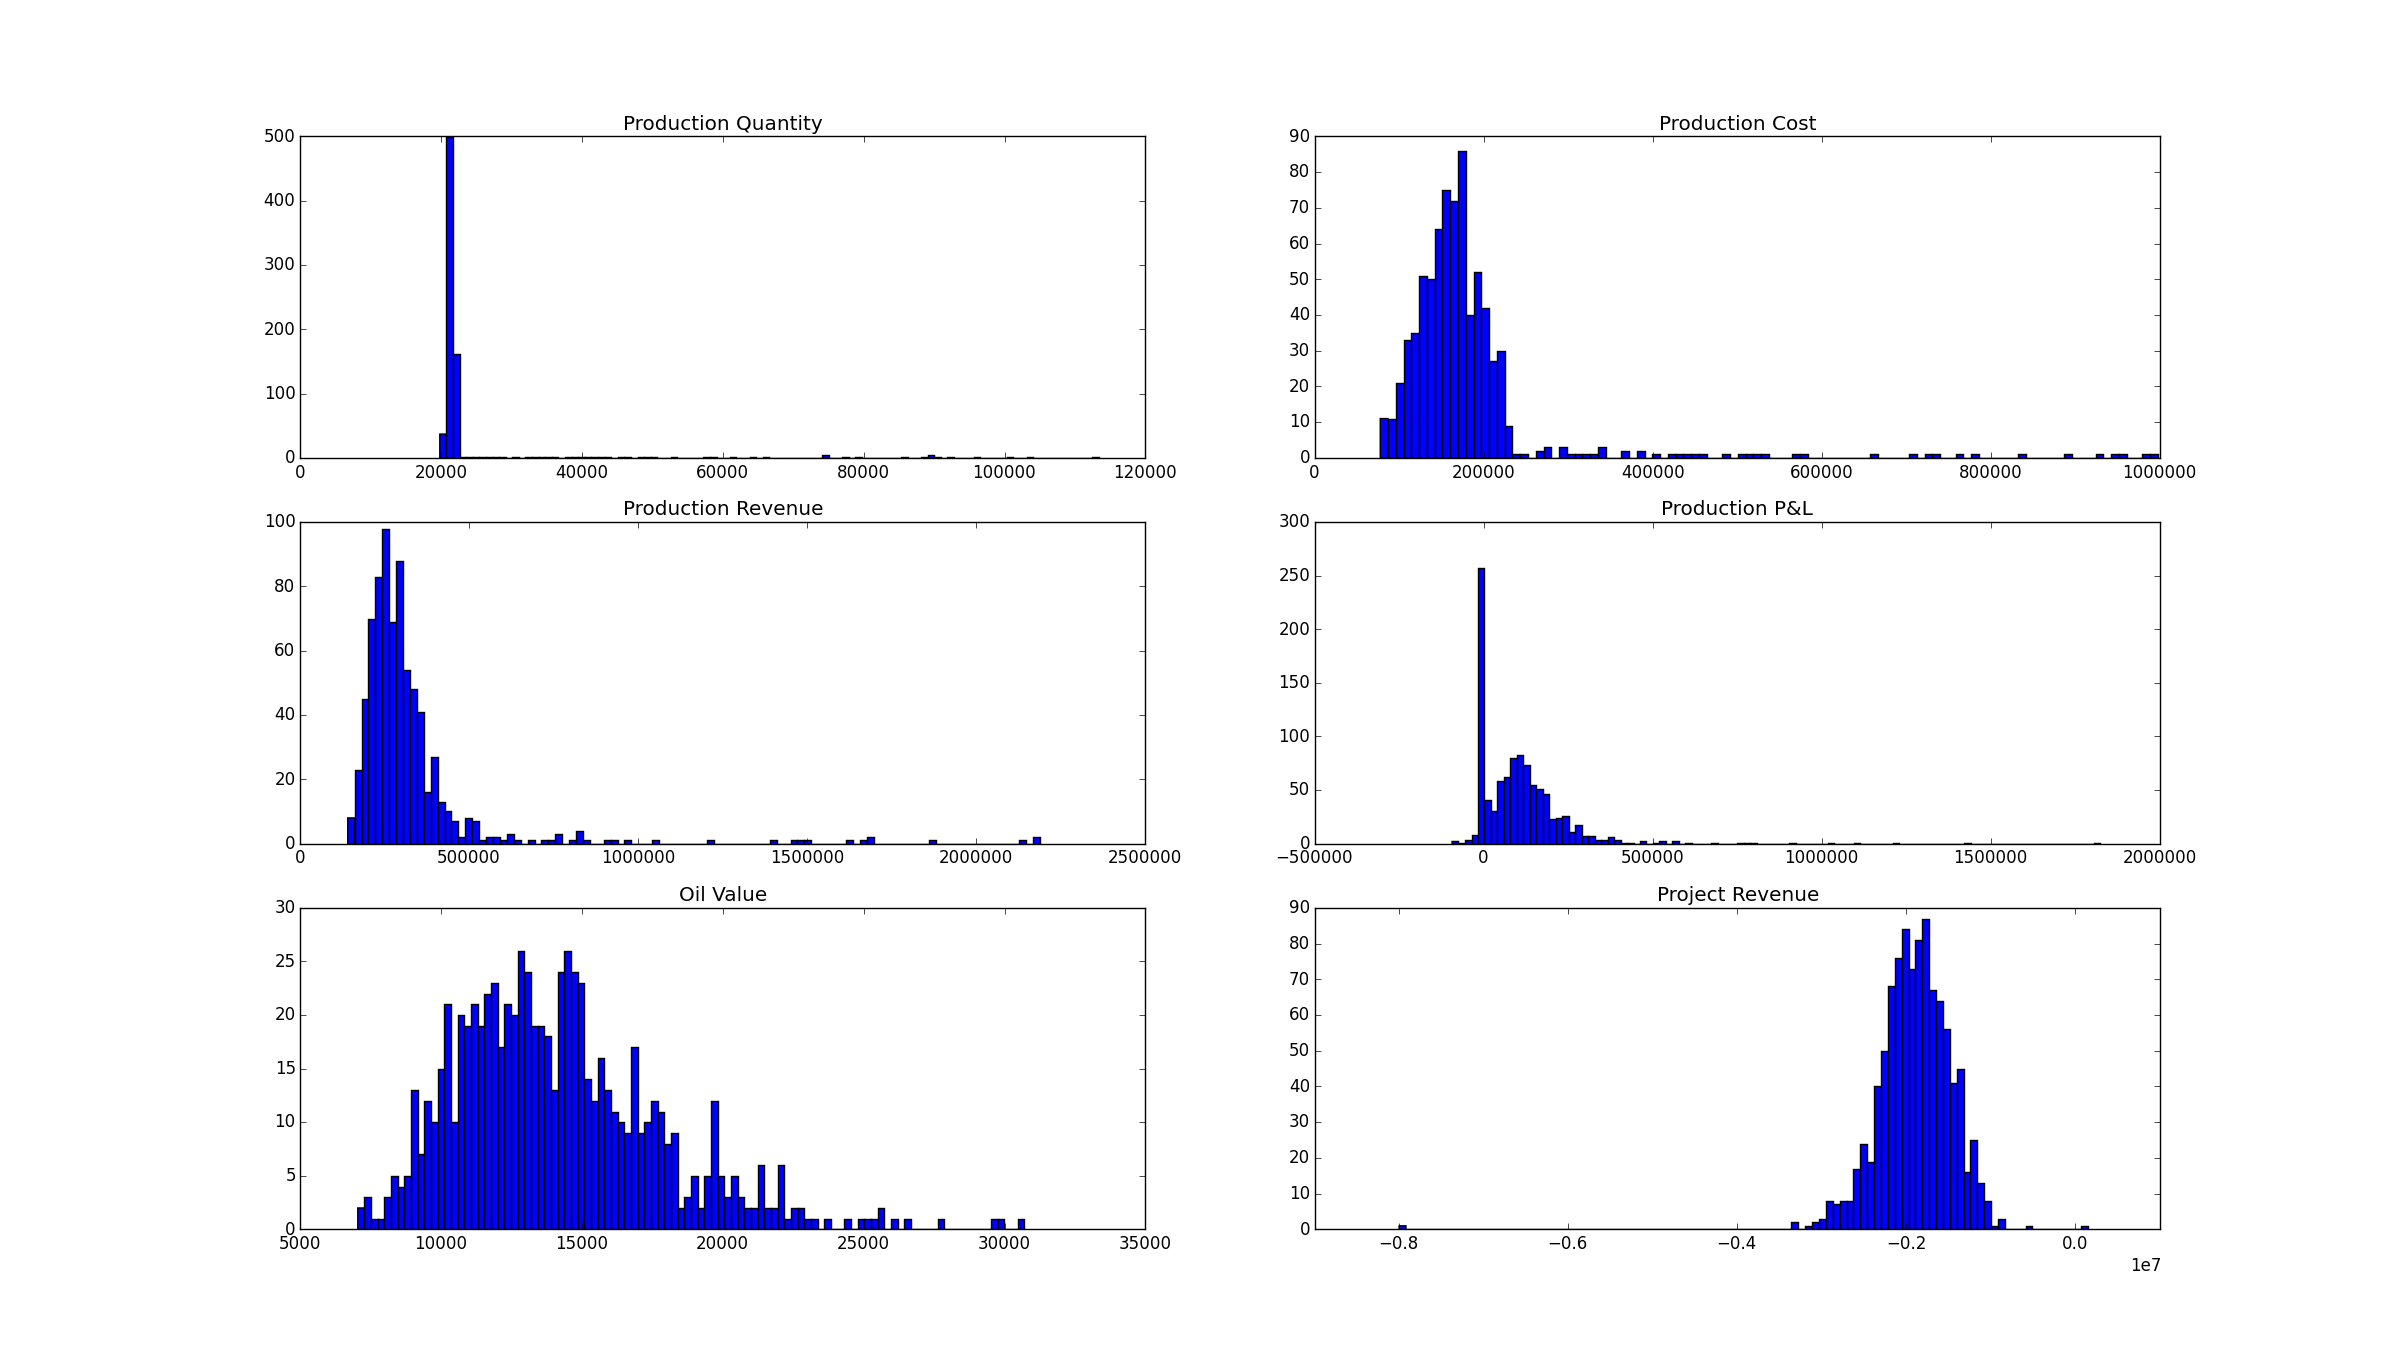
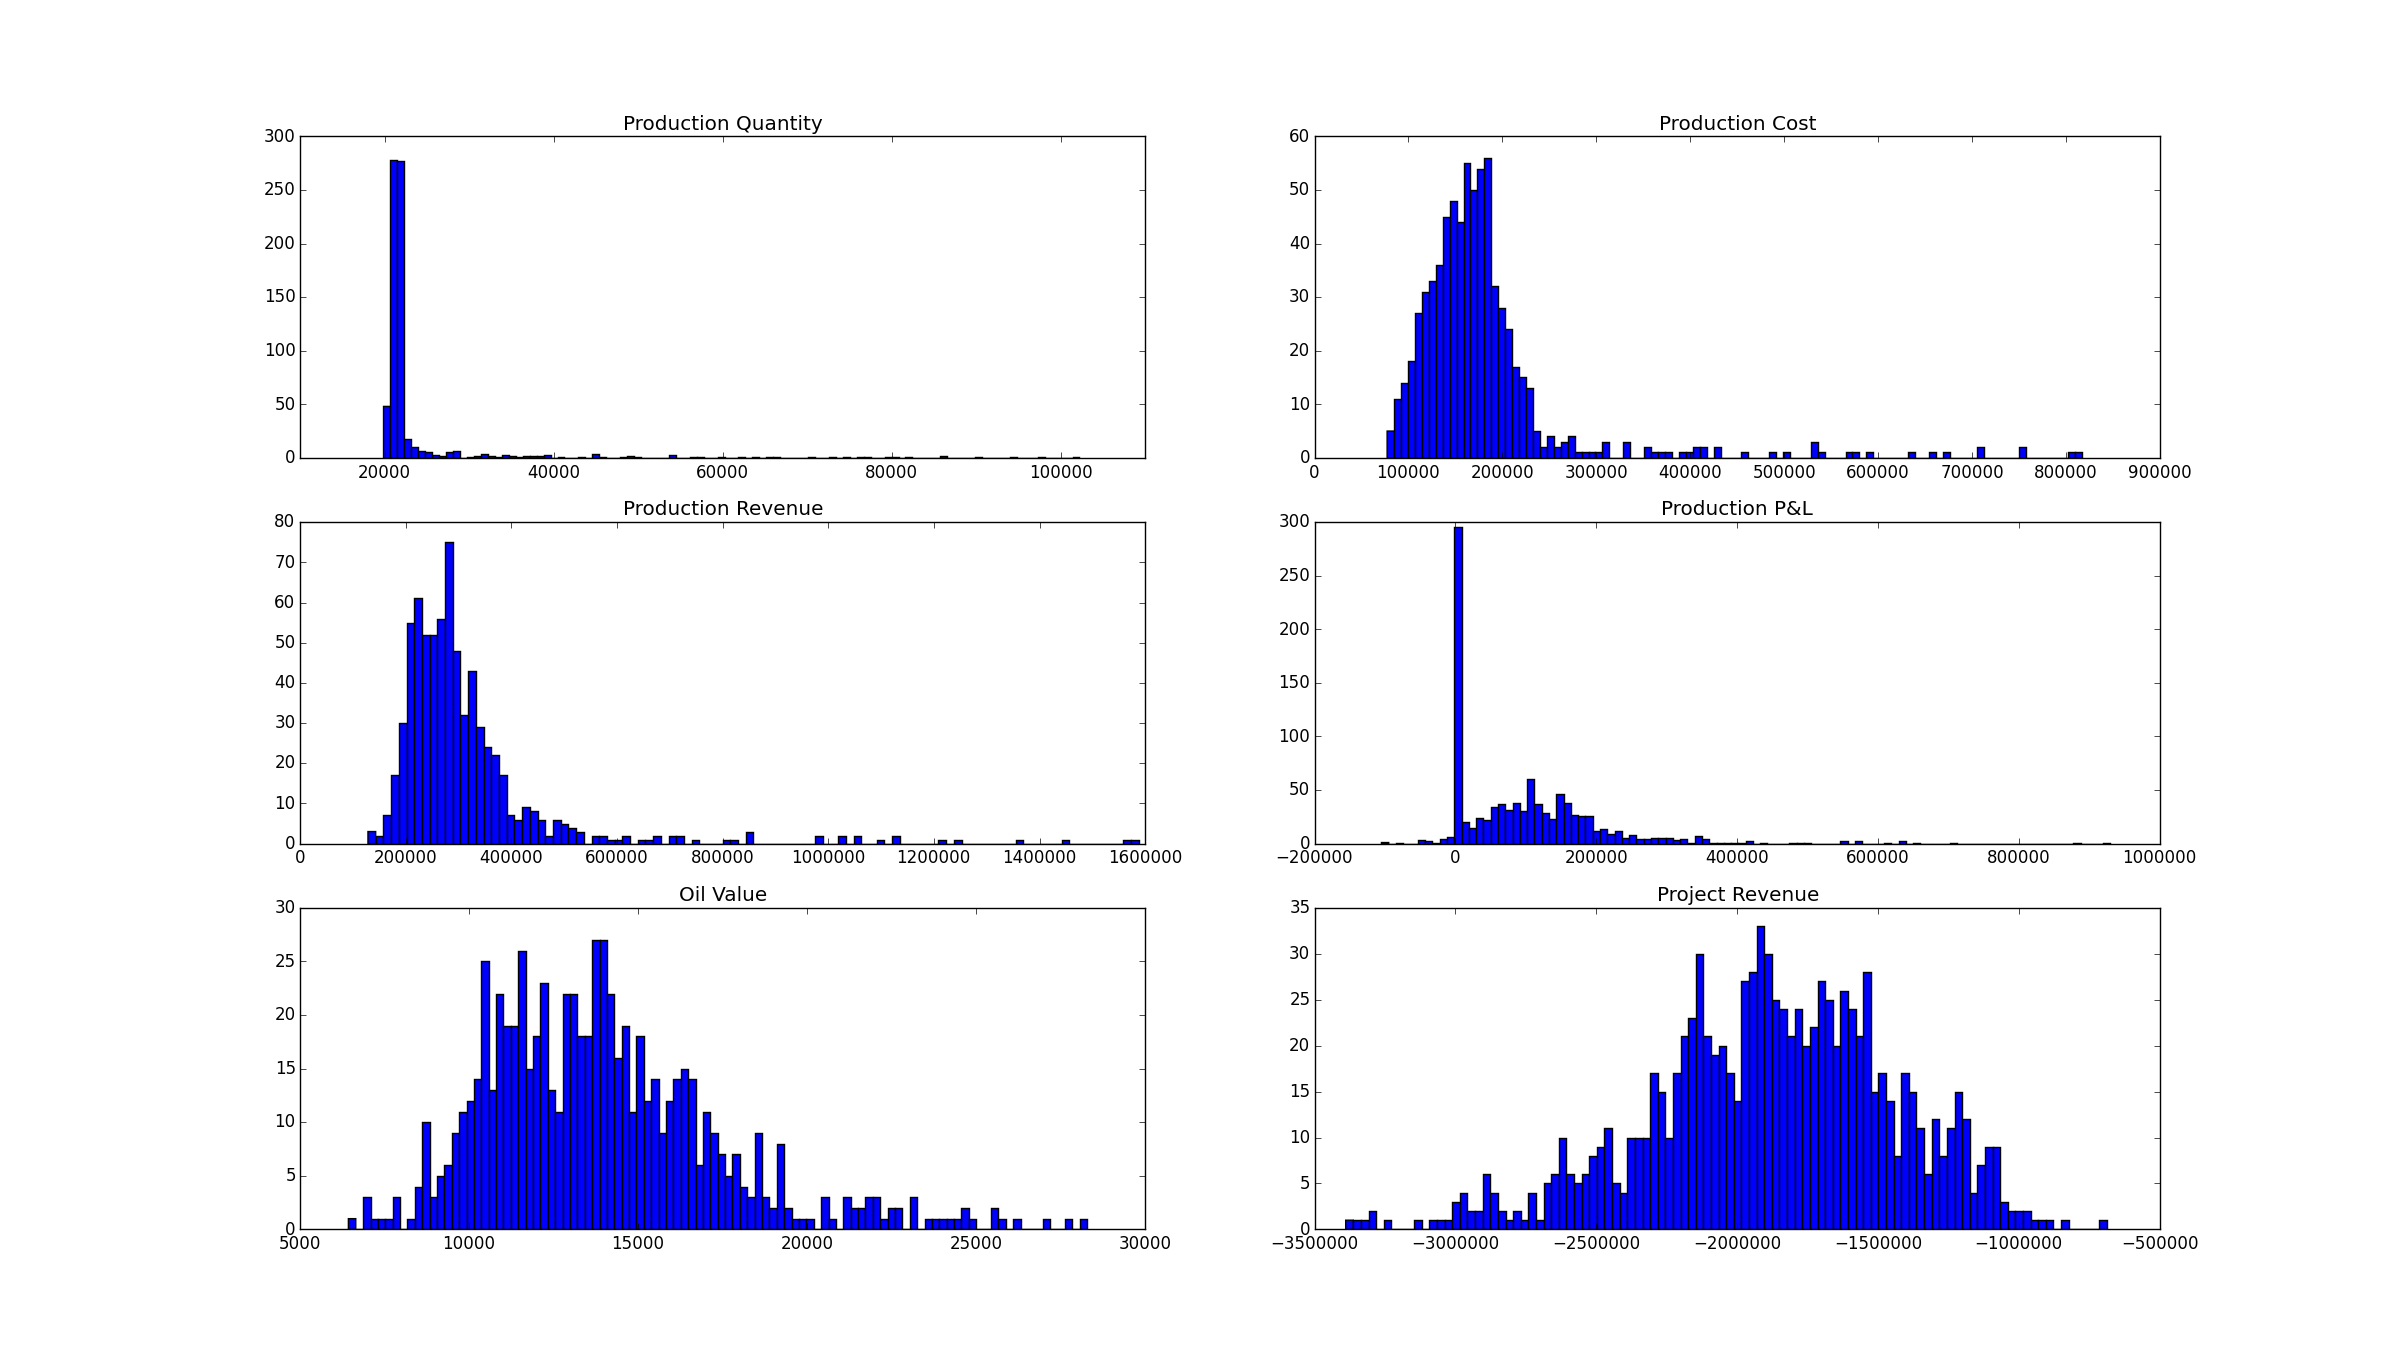
Model Tweaked
Still works!

diff --git a/Python Model/simulation.py b/Python Model/simulation.py
@@ -60,17 +60,18 @@ for i in range(1000):
 
 	### PRODUCTION ###
 	if not dryWell:
-		prodQ = prodQt(i+1)
+		
 		prodCost = prodCostBarrel()
 		prodDrillTime = expDrillTime()
 		timeRemaining = int(np.floor((5*240) - (exDrillTime + prodDrillTime))) # 5 years - exploration and production drill time
-		randomWalk = gmr(40.3, timeRemaining, 1) # Generate spot oil prices for time remaining days
+		randomWalk = gmr(100, timeRemaining, 1) # Generate spot oil prices for time remaining days
 		qProd =[]
 		revProd = []
 		cProd = []
 		netProd = []
 		oilVal = []
 		for x in range(timeRemaining):
+			prodQ = prodQt(i+1)
 			qProd.append(prodQ)
 			revProd.append(randomWalk[x]*prodQ)
 			cProd.append(prodQ*prodCost)
